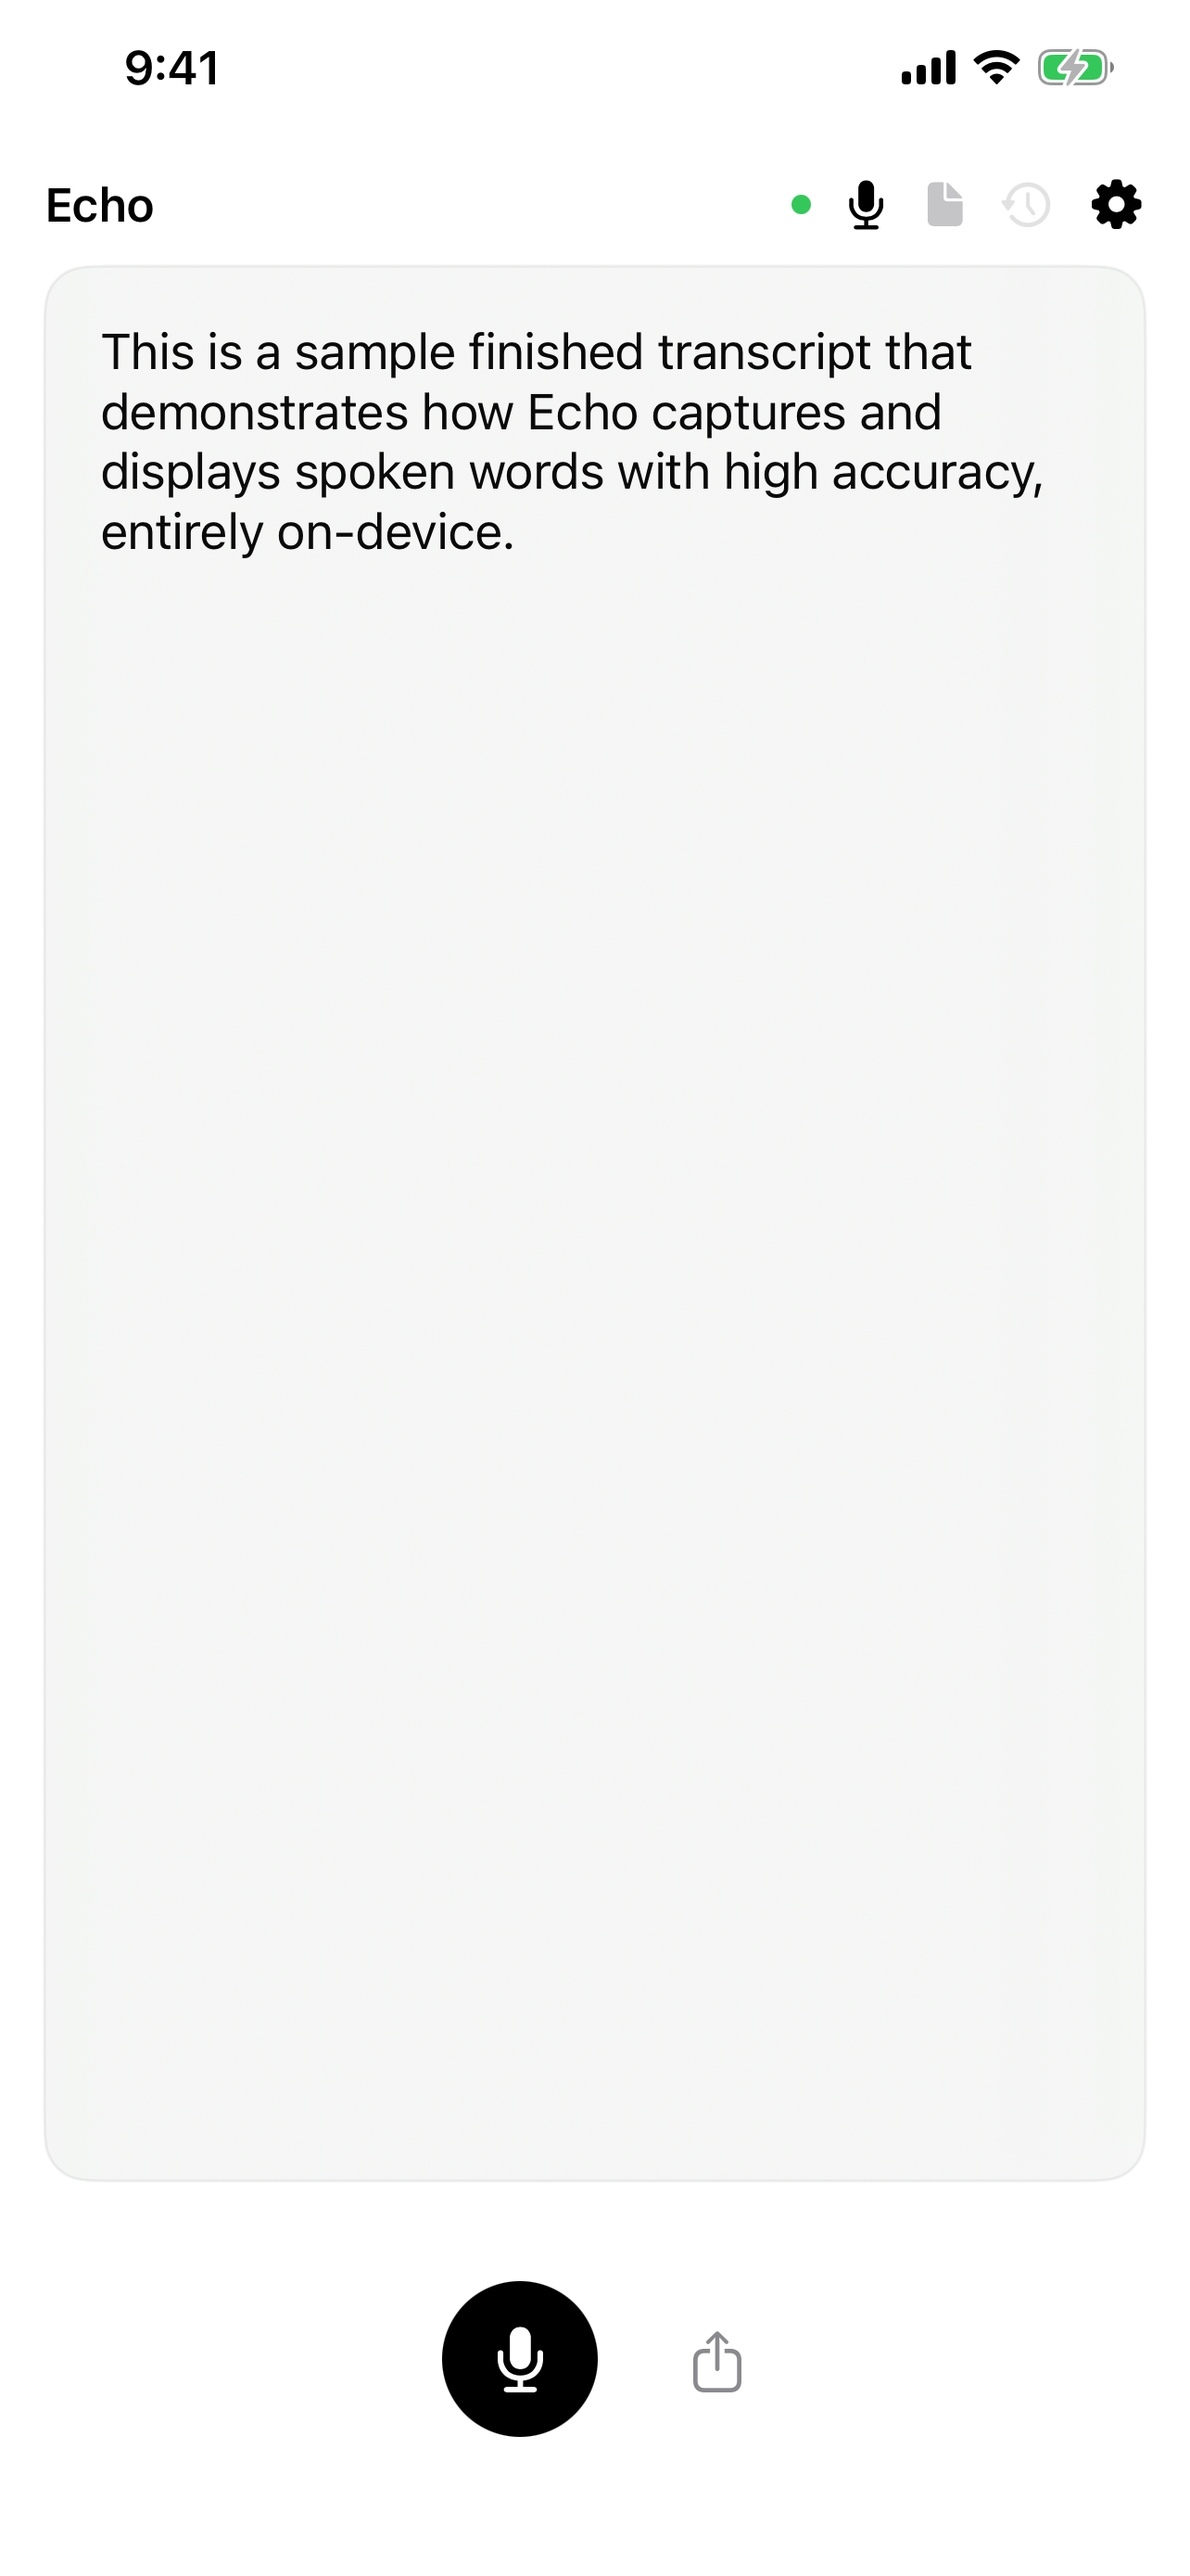
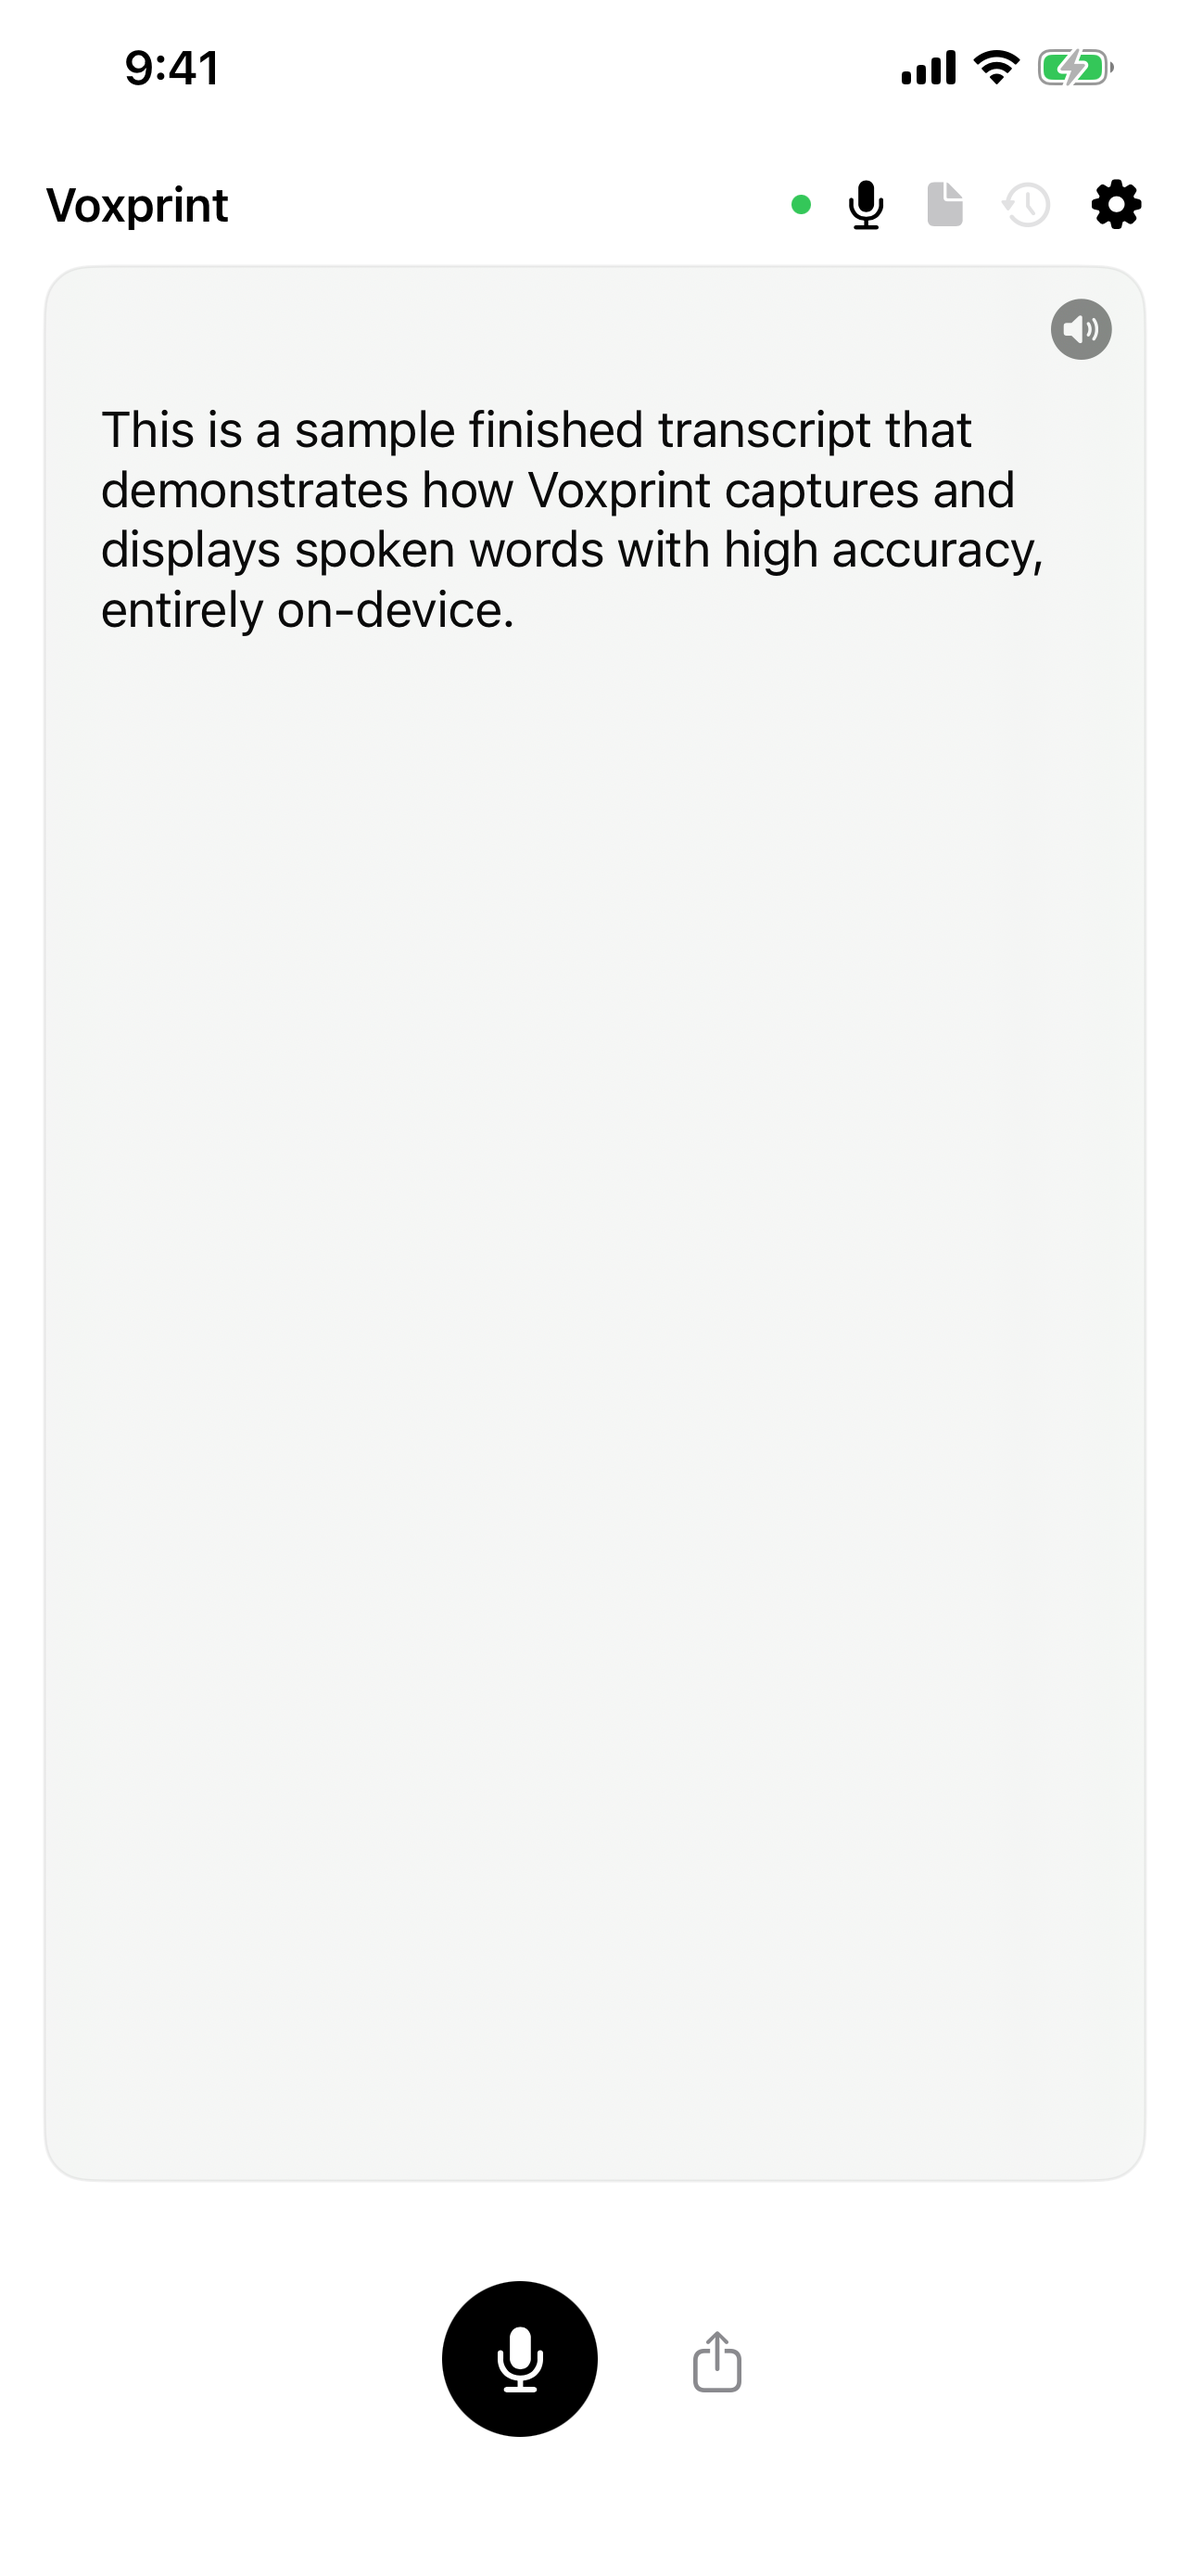
roadmap: close screenshot + privacy URL items, queue post-freeze follow-ups

Changed region(s): [[0.0623, 0.1238, 0.8723, 0.2477], [0.0312, 0.0619, 0.1869, 0.0929], [0.8723, 0.0929, 0.9346, 0.1548]]

diff --git a/fastlane/screenshots/screenshots.html b/fastlane/screenshots/screenshots.html
@@ -96,226 +96,8 @@
       <button class="tabLink" onclick="openTab(event, 'byScreen')">By Screen</button>
     </div>
     <div id="byLanguage" class="tabContent"><h1 class="tabTitle">By Language:</h1>
-      <h2 id="en-US">en-US</h2>
-      <hr>
-      <table>
-        <tr>
-          <th colspan="5">
-            <a id="en-US-iPhone 11 Pro Max" class="deviceName" href="#en-US-iPhone 11 Pro Max">iPhone 11 Pro Max</a>
-          </th>
-        </tr>
-        <tr>
-          <td>
-            <a href="./en-US/iPhone 11 Pro Max-1-finished-transcript.png" target="_blank" class="screenshotLink">
-              <img class="screenshot" src="./en-US/iPhone 11 Pro Max-1-finished-transcript.png" style="width: 100%;" alt="en-US iPhone 11 Pro Max" data-tab="1" data-counter="1">
-            </a>
-          </td>
-          <td>
-            <a href="./en-US/iPhone 11 Pro Max-2-history.png" target="_blank" class="screenshotLink">
-              <img class="screenshot" src="./en-US/iPhone 11 Pro Max-2-history.png" style="width: 100%;" alt="en-US iPhone 11 Pro Max" data-tab="1" data-counter="2">
-            </a>
-          </td>
-          <td>
-            <a href="./en-US/iPhone 11 Pro Max-3-paywall.png" target="_blank" class="screenshotLink">
-              <img class="screenshot" src="./en-US/iPhone 11 Pro Max-3-paywall.png" style="width: 100%;" alt="en-US iPhone 11 Pro Max" data-tab="1" data-counter="3">
-            </a>
-          </td>
-          <td>
-            <a href="./en-US/iPhone 11 Pro Max-4-settings.png" target="_blank" class="screenshotLink">
-              <img class="screenshot" src="./en-US/iPhone 11 Pro Max-4-settings.png" style="width: 100%;" alt="en-US iPhone 11 Pro Max" data-tab="1" data-counter="4">
-            </a>
-          </td>
-          <td>
-            <a href="./en-US/iPhone 11 Pro Max-5-live-recording.png" target="_blank" class="screenshotLink">
-              <img class="screenshot" src="./en-US/iPhone 11 Pro Max-5-live-recording.png" style="width: 100%;" alt="en-US iPhone 11 Pro Max" data-tab="1" data-counter="5">
-            </a>
-          </td>
-        </tr>
-        <tr>
-          <th colspan="5">
-            <a id="en-US-iPhone 14 Plus" class="deviceName" href="#en-US-iPhone 14 Plus">iPhone 14 Plus</a>
-          </th>
-        </tr>
-        <tr>
-          <td>
-            <a href="./en-US/iPhone 14 Plus-1-finished-transcript.png" target="_blank" class="screenshotLink">
-              <img class="screenshot" src="./en-US/iPhone 14 Plus-1-finished-transcript.png" style="width: 100%;" alt="en-US iPhone 14 Plus" data-tab="1" data-counter="6">
-            </a>
-          </td>
-          <td>
-            <a href="./en-US/iPhone 14 Plus-2-history.png" target="_blank" class="screenshotLink">
-              <img class="screenshot" src="./en-US/iPhone 14 Plus-2-history.png" style="width: 100%;" alt="en-US iPhone 14 Plus" data-tab="1" data-counter="7">
-            </a>
-          </td>
-          <td>
-            <a href="./en-US/iPhone 14 Plus-3-paywall.png" target="_blank" class="screenshotLink">
-              <img class="screenshot" src="./en-US/iPhone 14 Plus-3-paywall.png" style="width: 100%;" alt="en-US iPhone 14 Plus" data-tab="1" data-counter="8">
-            </a>
-          </td>
-          <td>
-            <a href="./en-US/iPhone 14 Plus-4-settings.png" target="_blank" class="screenshotLink">
-              <img class="screenshot" src="./en-US/iPhone 14 Plus-4-settings.png" style="width: 100%;" alt="en-US iPhone 14 Plus" data-tab="1" data-counter="9">
-            </a>
-          </td>
-          <td>
-            <a href="./en-US/iPhone 14 Plus-5-live-recording.png" target="_blank" class="screenshotLink">
-              <img class="screenshot" src="./en-US/iPhone 14 Plus-5-live-recording.png" style="width: 100%;" alt="en-US iPhone 14 Plus" data-tab="1" data-counter="10">
-            </a>
-          </td>
-        </tr>
-      </table>
     </div>
     <div id="byScreen" class="tabContent"><h1 class="tabTitle">By Screen:</h1>
-      <h2 id="1-finished-transcript" class="screen">1-finished-transcript</h2>
-      <hr>
-      <table>
-        <tr>
-          <th colspan="1">
-            <a id="1-finished-transcript-iPhone 11 Pro Max" class="deviceName" href="#1-finished-transcript-iPhone 11 Pro Max">iPhone 11 Pro Max</a>
-          </th>
-        </tr>
-        <tr>
-          <td>
-            <a href="./en-US/iPhone 11 Pro Max-1-finished-transcript.png" target="_blank" class="screenshotLink">
-              <img class="screenshot" src="./en-US/iPhone 11 Pro Max-1-finished-transcript.png" style="width: 100%;" alt="en-US iPhone 11 Pro Max" data-tab="2" data-counter="1">
-            </a>
-            <div class="caption">en-US</div>
-          </td>
-        </tr>
-        <tr>
-          <th colspan="1">
-            <a id="1-finished-transcript-iPhone 14 Plus" class="deviceName" href="#1-finished-transcript-iPhone 14 Plus">iPhone 14 Plus</a>
-          </th>
-        </tr>
-        <tr>
-          <td>
-            <a href="./en-US/iPhone 14 Plus-1-finished-transcript.png" target="_blank" class="screenshotLink">
-              <img class="screenshot" src="./en-US/iPhone 14 Plus-1-finished-transcript.png" style="width: 100%;" alt="en-US iPhone 14 Plus" data-tab="2" data-counter="2">
-            </a>
-            <div class="caption">en-US</div>
-          </td>
-        </tr>
-      </table>
-      <h2 id="2-history" class="screen">2-history</h2>
-      <hr>
-      <table>
-        <tr>
-          <th colspan="1">
-            <a id="2-history-iPhone 11 Pro Max" class="deviceName" href="#2-history-iPhone 11 Pro Max">iPhone 11 Pro Max</a>
-          </th>
-        </tr>
-        <tr>
-          <td>
-            <a href="./en-US/iPhone 11 Pro Max-2-history.png" target="_blank" class="screenshotLink">
-              <img class="screenshot" src="./en-US/iPhone 11 Pro Max-2-history.png" style="width: 100%;" alt="en-US iPhone 11 Pro Max" data-tab="2" data-counter="3">
-            </a>
-            <div class="caption">en-US</div>
-          </td>
-        </tr>
-        <tr>
-          <th colspan="1">
-            <a id="2-history-iPhone 14 Plus" class="deviceName" href="#2-history-iPhone 14 Plus">iPhone 14 Plus</a>
-          </th>
-        </tr>
-        <tr>
-          <td>
-            <a href="./en-US/iPhone 14 Plus-2-history.png" target="_blank" class="screenshotLink">
-              <img class="screenshot" src="./en-US/iPhone 14 Plus-2-history.png" style="width: 100%;" alt="en-US iPhone 14 Plus" data-tab="2" data-counter="4">
-            </a>
-            <div class="caption">en-US</div>
-          </td>
-        </tr>
-      </table>
-      <h2 id="3-paywall" class="screen">3-paywall</h2>
-      <hr>
-      <table>
-        <tr>
-          <th colspan="1">
-            <a id="3-paywall-iPhone 11 Pro Max" class="deviceName" href="#3-paywall-iPhone 11 Pro Max">iPhone 11 Pro Max</a>
-          </th>
-        </tr>
-        <tr>
-          <td>
-            <a href="./en-US/iPhone 11 Pro Max-3-paywall.png" target="_blank" class="screenshotLink">
-              <img class="screenshot" src="./en-US/iPhone 11 Pro Max-3-paywall.png" style="width: 100%;" alt="en-US iPhone 11 Pro Max" data-tab="2" data-counter="5">
-            </a>
-            <div class="caption">en-US</div>
-          </td>
-        </tr>
-        <tr>
-          <th colspan="1">
-            <a id="3-paywall-iPhone 14 Plus" class="deviceName" href="#3-paywall-iPhone 14 Plus">iPhone 14 Plus</a>
-          </th>
-        </tr>
-        <tr>
-          <td>
-            <a href="./en-US/iPhone 14 Plus-3-paywall.png" target="_blank" class="screenshotLink">
-              <img class="screenshot" src="./en-US/iPhone 14 Plus-3-paywall.png" style="width: 100%;" alt="en-US iPhone 14 Plus" data-tab="2" data-counter="6">
-            </a>
-            <div class="caption">en-US</div>
-          </td>
-        </tr>
-      </table>
-      <h2 id="4-settings" class="screen">4-settings</h2>
-      <hr>
-      <table>
-        <tr>
-          <th colspan="1">
-            <a id="4-settings-iPhone 11 Pro Max" class="deviceName" href="#4-settings-iPhone 11 Pro Max">iPhone 11 Pro Max</a>
-          </th>
-        </tr>
-        <tr>
-          <td>
-            <a href="./en-US/iPhone 11 Pro Max-4-settings.png" target="_blank" class="screenshotLink">
-              <img class="screenshot" src="./en-US/iPhone 11 Pro Max-4-settings.png" style="width: 100%;" alt="en-US iPhone 11 Pro Max" data-tab="2" data-counter="7">
-            </a>
-            <div class="caption">en-US</div>
-          </td>
-        </tr>
-        <tr>
-          <th colspan="1">
-            <a id="4-settings-iPhone 14 Plus" class="deviceName" href="#4-settings-iPhone 14 Plus">iPhone 14 Plus</a>
-          </th>
-        </tr>
-        <tr>
-          <td>
-            <a href="./en-US/iPhone 14 Plus-4-settings.png" target="_blank" class="screenshotLink">
-              <img class="screenshot" src="./en-US/iPhone 14 Plus-4-settings.png" style="width: 100%;" alt="en-US iPhone 14 Plus" data-tab="2" data-counter="8">
-            </a>
-            <div class="caption">en-US</div>
-          </td>
-        </tr>
-      </table>
-      <h2 id="5-live-recording" class="screen">5-live-recording</h2>
-      <hr>
-      <table>
-        <tr>
-          <th colspan="1">
-            <a id="5-live-recording-iPhone 11 Pro Max" class="deviceName" href="#5-live-recording-iPhone 11 Pro Max">iPhone 11 Pro Max</a>
-          </th>
-        </tr>
-        <tr>
-          <td>
-            <a href="./en-US/iPhone 11 Pro Max-5-live-recording.png" target="_blank" class="screenshotLink">
-              <img class="screenshot" src="./en-US/iPhone 11 Pro Max-5-live-recording.png" style="width: 100%;" alt="en-US iPhone 11 Pro Max" data-tab="2" data-counter="9">
-            </a>
-            <div class="caption">en-US</div>
-          </td>
-        </tr>
-        <tr>
-          <th colspan="1">
-            <a id="5-live-recording-iPhone 14 Plus" class="deviceName" href="#5-live-recording-iPhone 14 Plus">iPhone 14 Plus</a>
-          </th>
-        </tr>
-        <tr>
-          <td>
-            <a href="./en-US/iPhone 14 Plus-5-live-recording.png" target="_blank" class="screenshotLink">
-              <img class="screenshot" src="./en-US/iPhone 14 Plus-5-live-recording.png" style="width: 100%;" alt="en-US iPhone 14 Plus" data-tab="2" data-counter="10">
-            </a>
-            <div class="caption">en-US</div>
-          </td>
-        </tr>
-      </table>
     </div>
     <div id="overlay">
       <img id="imageDisplay" src="" alt="" />

diff --git a/roadmap.md b/roadmap.md
@@ -8,18 +8,12 @@
   - **Exactly what to do:** run `asc-login`, enter the 2FA code, then `asc web apps delete --app 6783015101`. If that still refuses, delete via appstoreconnect.apple.com → Transcriptly → App Information → Remove App.
   - Apple support case **102949489427** (an earlier note cites 102949488998 — still unconfirmed which is live; can't check without the web session).
 
-## Echo→Voxprint rename, remaining (2026-08-10)
-- [ ] Regenerate `web/assets/shot-1.png` / `shot-2.png` — hero mockups on
-      voxprint.heyitsmejosh.com still show "Echo" in the phone title bar.
-      Captured 14 Jul, pre-rename. App source already renders "Voxprint"
-      (Sources/Views/ContentView.swift:239), so a fresh sim capture is the
-      whole fix: shot-1 = finished transcript, shot-2 = mid-record (red stop).
-      Overwrite at the same filenames, then `wrangler pages deploy web
-      --project-name echo`.
-- [ ] AppStore.md:8,69 lists the privacy URL as
-      https://heyitsmejosh.com/echo/privacy.html — that 404s. The live,
-      Voxprint-branded page is https://echo.heyitsmejosh.com/privacy.html.
-      Verify which URL App Store Connect actually holds and repoint if needed.
-- Done: docs/ site (GitHub Pages, echo.heyitsmejosh.com) fully renamed.
-- Deliberately skipped: project.yml target/scheme names, .ship.json,
-  bundle id com.nulljosh.echo — internal only, no user-visible impact.
+## After the 5.6 freeze lifts (2026-08-18)
+- [ ] Upload the regenerated App Store screenshots (`screenshots/appstore/`) — the
+      live listing still shows Jul 3 captures with "Echo" branding. Shots 1/2/5 are
+      current as of 2026-08-11; `3-paywall.png` and `4-settings.png` are still stale
+      and need capturing (they require UI navigation, not just a launch argument).
+- [ ] Migrate the App Store privacy URL to `https://echo.heyitsmejosh.com/privacy.html`.
+      Currently held as the old `heyitsmejosh.com/echo/privacy.html`, which now works
+      via a redirect in the portfolio repo. `asc localizations update` rejects the
+      field while the app-info is locked outside an editable version.
